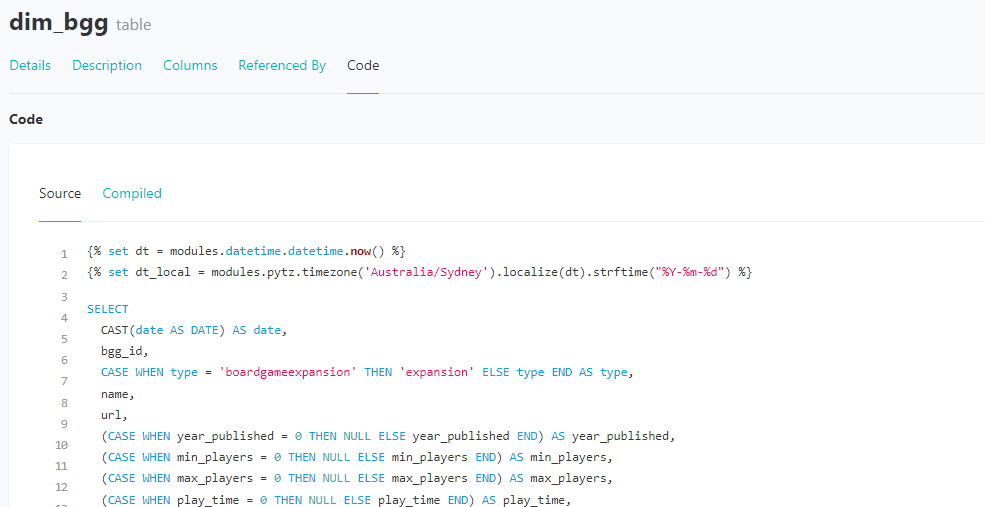
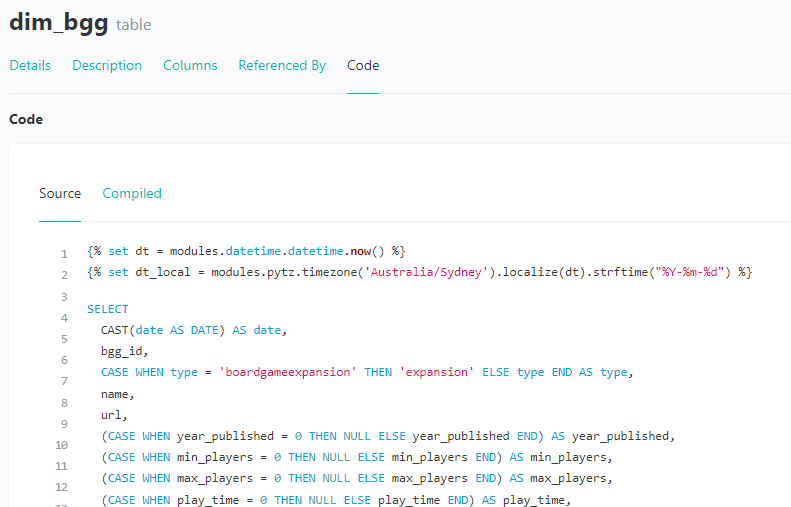
updated images

diff --git a/README.md b/README.md
@@ -16,7 +16,7 @@
 
 This pipeline extracts BGG's XML API2 data, parses the XML files and saves the denormalised data into a BigQuery staging schema. Data is modelled into a star schema using dbt and saved into a daily table in the production schema. This data is then incrementally loaded into respective historical tables in the production schema.
 
-<img src="./documentation/pipeline.png" alt="pipeline" />
+<img src="./documentation/pipeline.png" alt="pipeline" border="1"/>
 
 ### Infrastructure Introduction
 
@@ -28,7 +28,7 @@ Google Cloud Platform is being used as the cloud provider. All infrastructure is
 
 - The document bucket holds the dbt data dictionary, which is accessible through the load balancer. [dbt docs](https://alfredzou.github.io/#!/overview)
 
-<img src="./documentation/infrastructure.png" alt="infrastructure" />
+<img src="./documentation/infrastructure.png" alt="infrastructure" width="700"/>
 
 ### Tools & Technologies
 - Infrastructure as code: Terraform
@@ -173,7 +173,7 @@ Unlike traditional tabular formats, XML offers a hierarchical and flexible way t
 
 **Nested mechanics column from staging schema**
 
-<img src="./documentation/screenshots/bq_stage_nested_data.png" alt="stage_data" />
+<img src="./documentation/screenshots/bq_stage_nested_data.png" alt="stage_data" border="1"/>
 
 To make this data easier to work with, below code is used to create a new mechanics table with the data unnested. This is repeated multiple times for other nested data, such as 'family', 'category', 'artist', 'designer' and 'publisher' tables.
 ``` sql
@@ -194,7 +194,7 @@ AND mechanic NOT IN ('<NA>') AND mechanic_id NOT IN ('<NA>')
 
 **Mechanics table in production schema**
 
-<img src="./documentation/screenshots/mechanic_table_brass.png" alt="mechanic_table_brass" />
+<img src="./documentation/screenshots/mechanic_table_brass.png" alt="mechanic_table_brass" border="1"/>
 
 This results in the below entity relationship diagram in a star schema format. `bgg` represents the central fact table holding all the metrics, surrounded by all the dimension tables. The tables are joined together through `date` and `bgg_id`, although a possible improvement could be adding a hash on the columns for easier joining.
 
@@ -202,8 +202,7 @@ The dimension tables violate 2nd normal form. For the mechanics table, 'mechanic
 
 **Entity relationship diagram**
 
-<img src="./documentation/screenshots/BGG_ERD.png" alt="BGG_ERD" 
-/>
+<img src="./documentation/screenshots/BGG_ERD.png" alt="BGG_ERD" border="1"/>
 
 Although due to different granularity and the one-to-many relationships, users need to be careful about data duplication on joins. Perhaps one way to combine this data is through creating flags, for example comparing crowdfunding games to the general population.
 
@@ -257,10 +256,10 @@ models:
 To make the documentation automated, the documentation is generated every pipeline run and uploaded to a document GCS bucket. This is then served to the public using a http load balancer url, ensuring documentation freshness.
 
 **Resulting documentation**
-<img src="./documentation/screenshots/dbt_docs_1.png" alt="dbt_docs_1" />
+<img src="./documentation/screenshots/dbt_docs_1.png" alt="dbt_docs_1" border="1"/>
 
 **Data transparency through seeing transformation code**
-<img src="./documentation/screenshots/dbt_docs_2.png" alt="dbt_docs_2" />
+<img src="./documentation/screenshots/dbt_docs_2.png" alt="dbt_docs_2" border="1"/>
 
 ### No partitioning and clustering
 
@@ -269,7 +268,7 @@ Due to the small daily data size of ~150,000 rows, partitioning and clustering o
 ## Infrastructure, Tools & Technologies Design Explanation
 
 ### Infrastructure
-<img src="./documentation/infrastructure.png" alt="infrastructure" />
+<img src="./documentation/infrastructure.png" alt="infrastructure" width="700"/>
 
 ### Tools & Technologies
 - Infrastructure as code: Terraform
@@ -322,7 +321,7 @@ There were two options for deploying Mage.
 
 **Cost breakdown from using Cloud Run and Filestore**
 
-<img src="./documentation/screenshots/costs.png" alt="cost" />
+<img src="./documentation/screenshots/costs.png" alt="cost" border="1"/>
 
 ### Cloud database - OLAP vs OLTP
 
